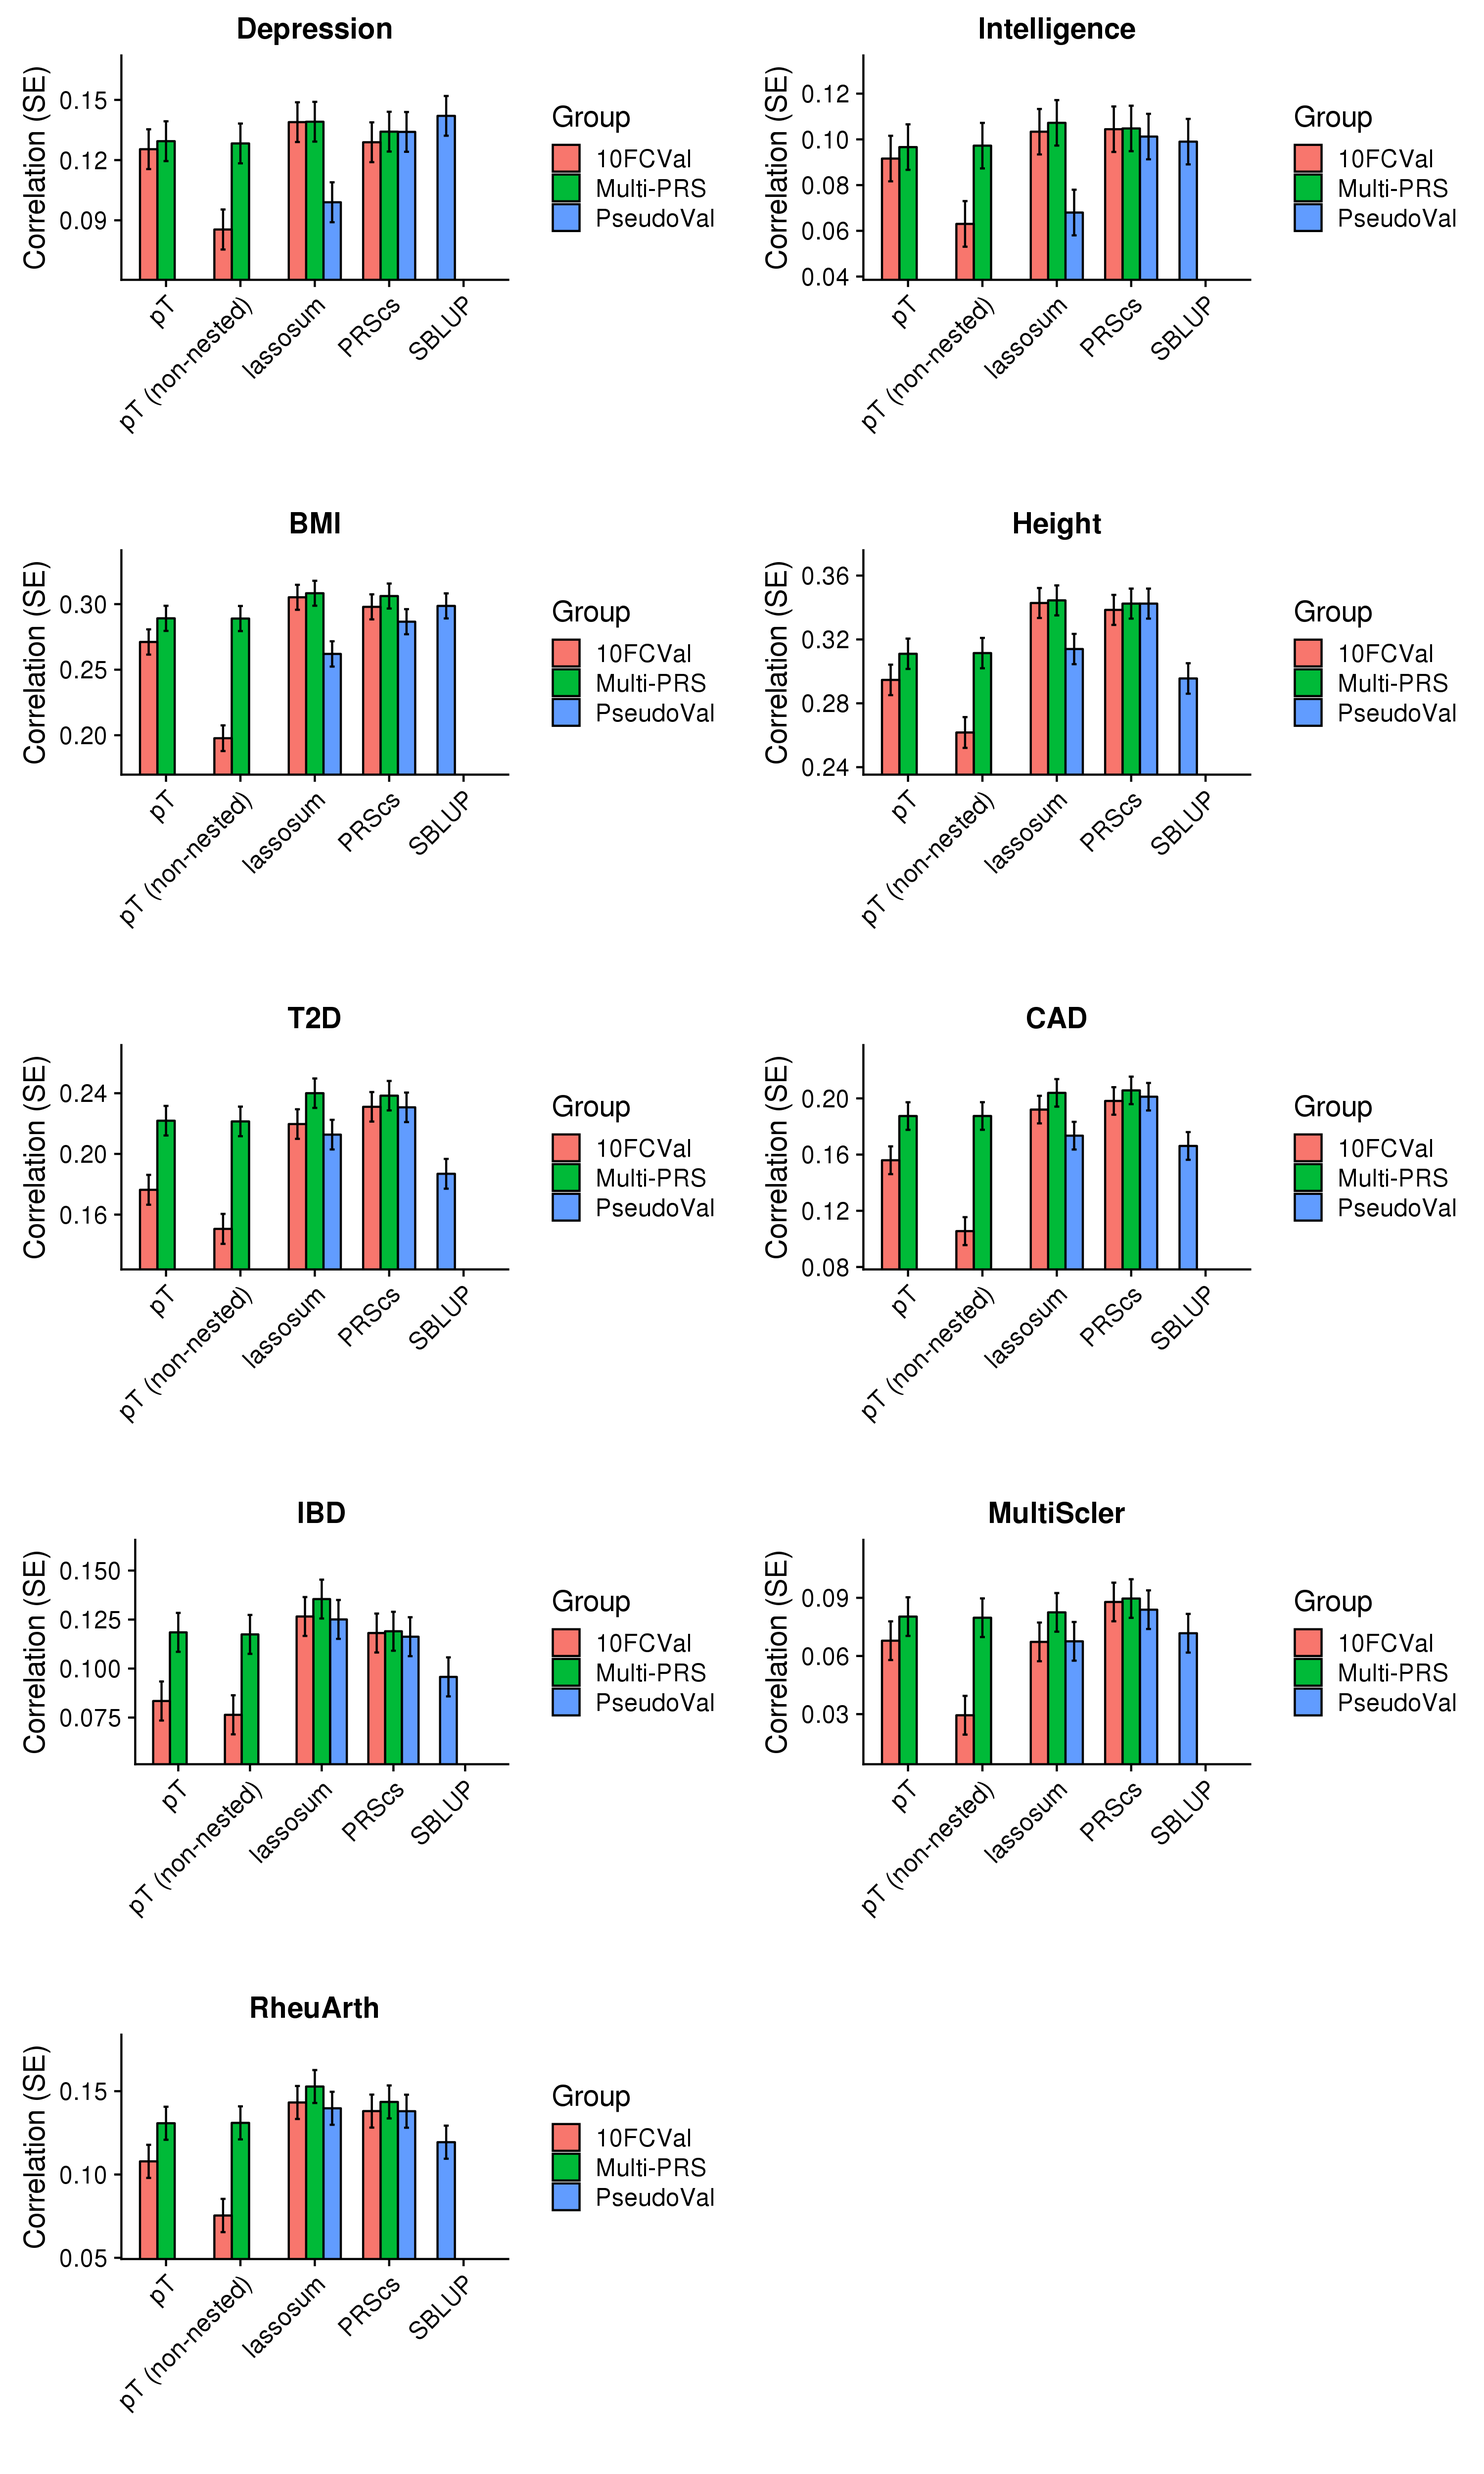
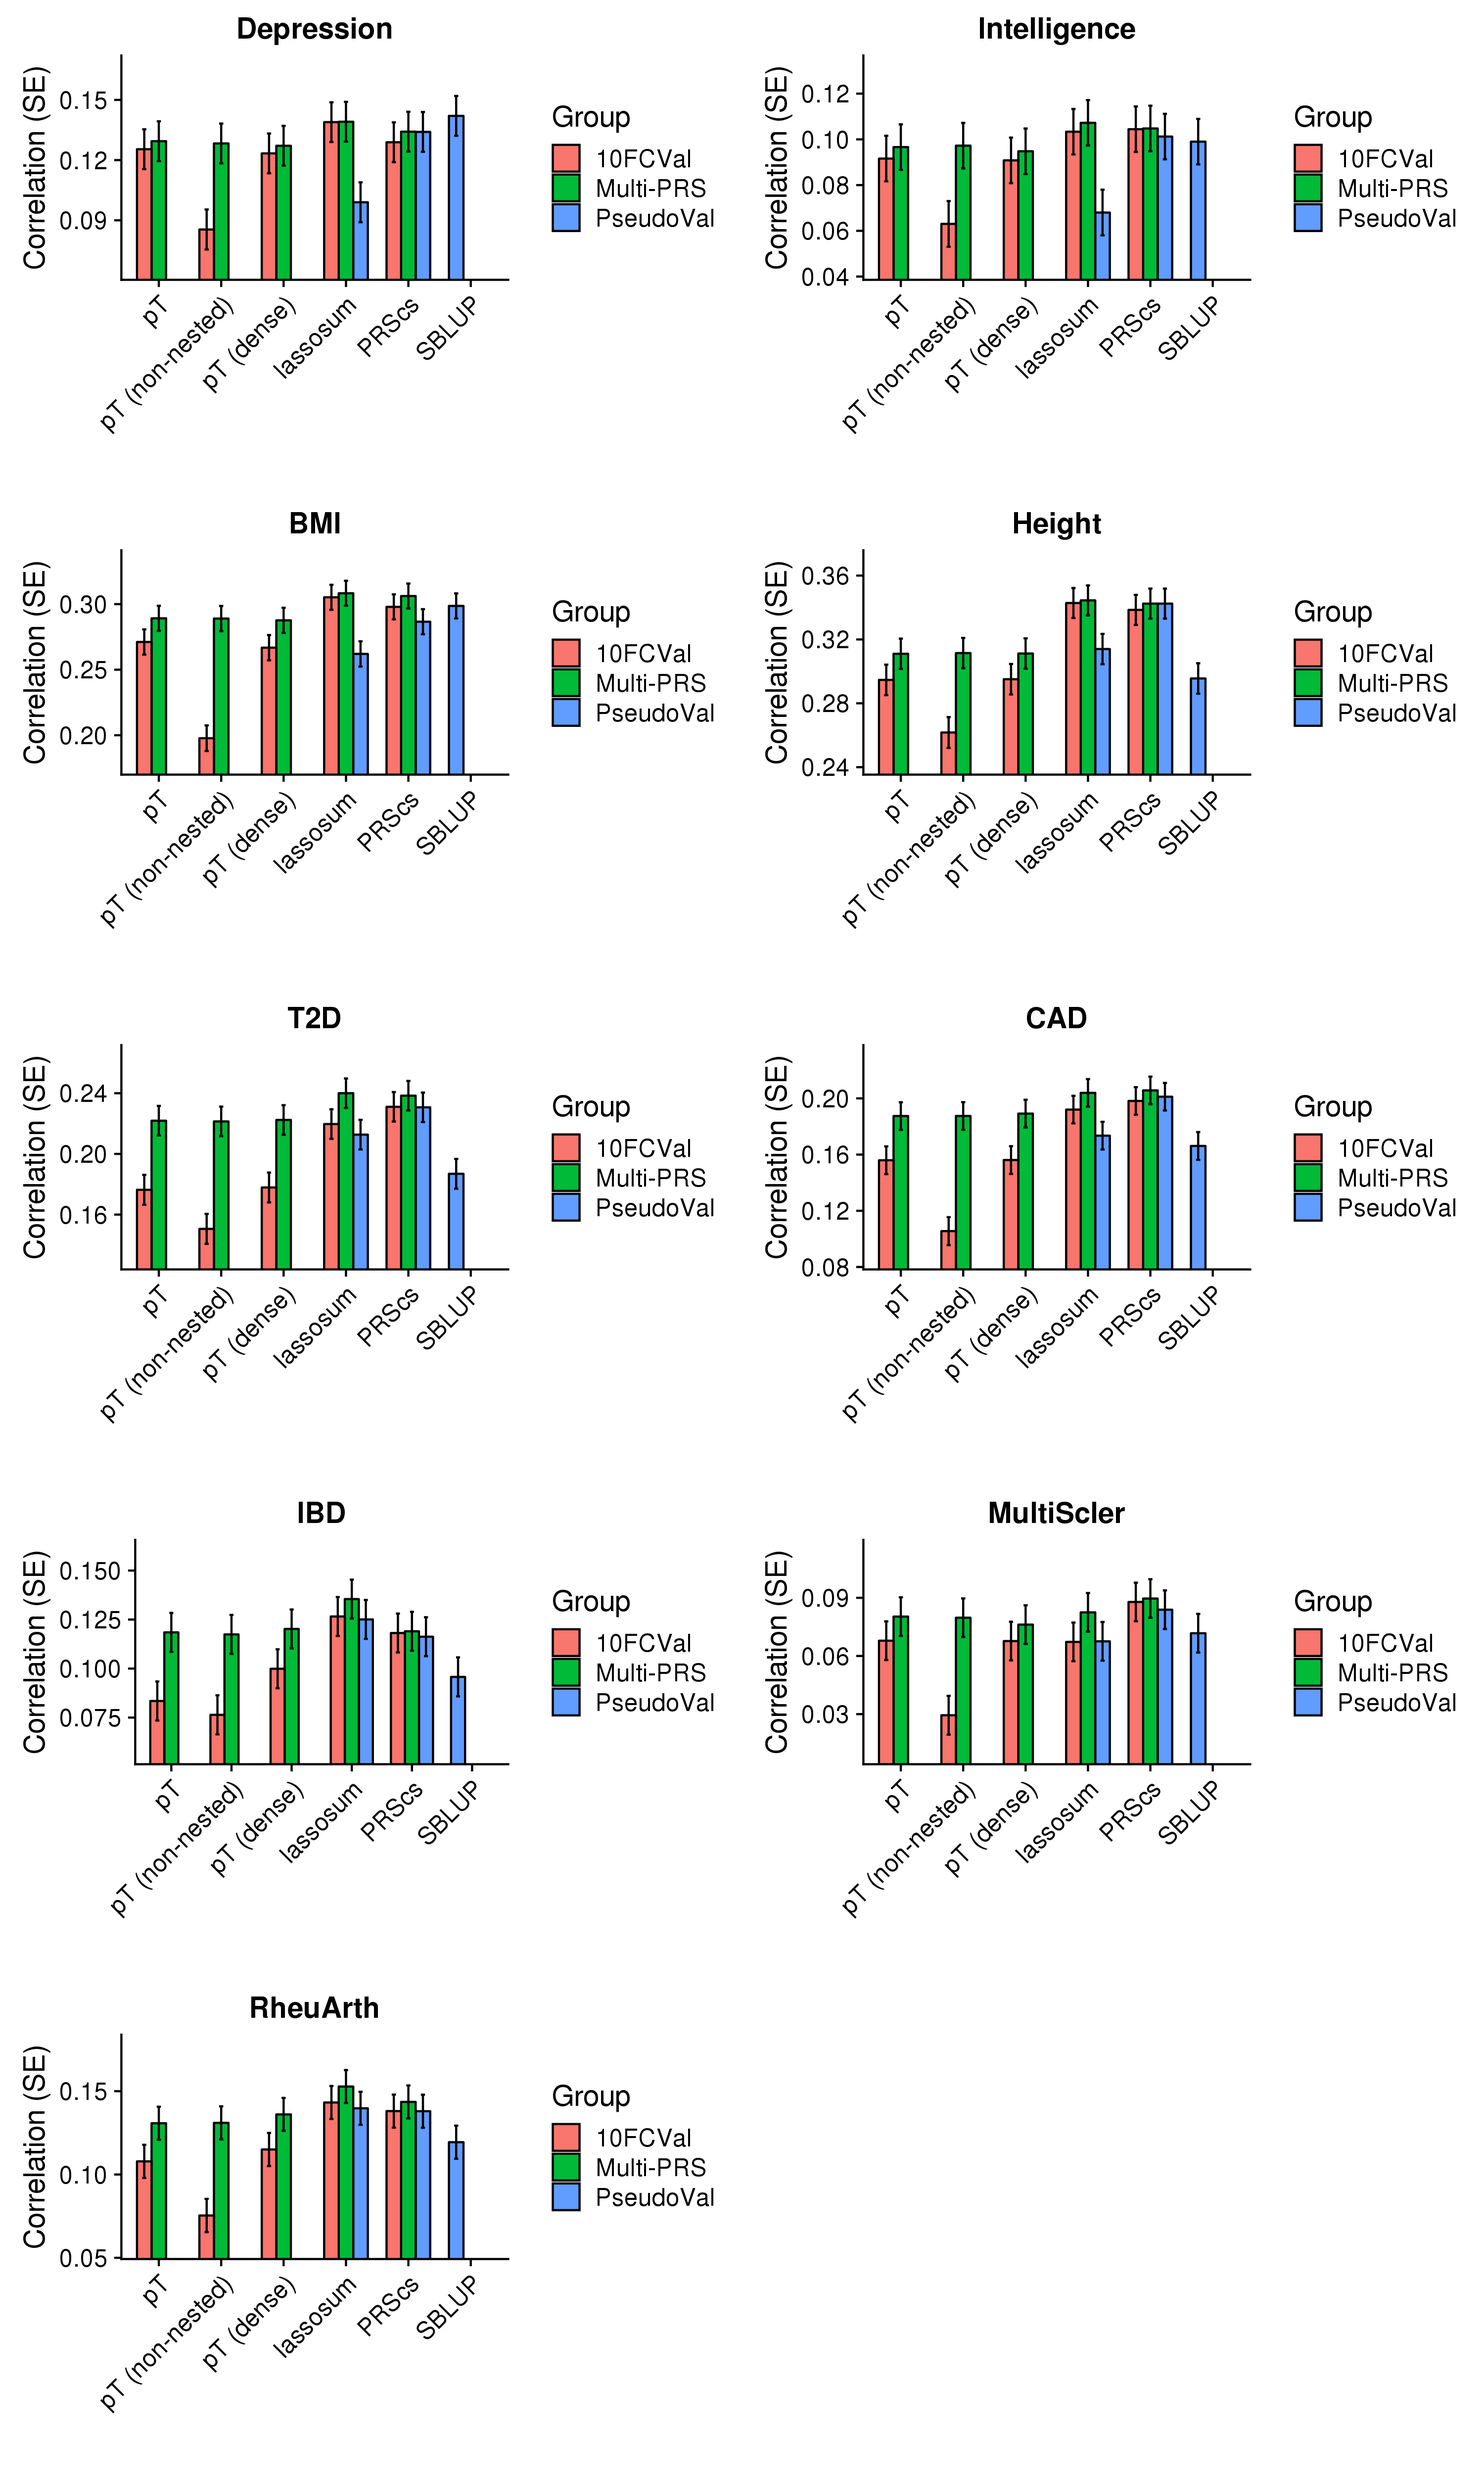
Update

diff --git a/Determine_optimal_polygenic_scoring_approach.html b/Determine_optimal_polygenic_scoring_approach.html
@@ -3897,6 +3897,20 @@ n</code></pre>
 </tr>
 <tr class="odd">
 <td align="left">Depression</td>
+<td align="left">pT (dense)</td>
+<td align="left">10FCVal</td>
+<td align="left">0.127 (0.005)</td>
+<td align="left">0.123 (0.01)</td>
+</tr>
+<tr class="even">
+<td align="left">Depression</td>
+<td align="left">pT (dense)</td>
+<td align="left">Multi-PRS</td>
+<td align="left">0.132 (0.005)</td>
+<td align="left">0.127 (0.01)</td>
+</tr>
+<tr class="odd">
+<td align="left">Depression</td>
 <td align="left">lassosum</td>
 <td align="left">PseudoVal</td>
 <td align="left">0.107 (0.005)</td>
@@ -3971,6 +3985,20 @@ n</code></pre>
 <td align="left">Multi-PRS</td>
 <td align="left">0.09 (0.005)</td>
 <td align="left">0.097 (0.01)</td>
+</tr>
+<tr class="even">
+<td align="left">Intelligence</td>
+<td align="left">pT (dense)</td>
+<td align="left">10FCVal</td>
+<td align="left">0.087 (0.005)</td>
+<td align="left">0.091 (0.01)</td>
+</tr>
+<tr class="odd">
+<td align="left">Intelligence</td>
+<td align="left">pT (dense)</td>
+<td align="left">Multi-PRS</td>
+<td align="left">0.089 (0.005)</td>
+<td align="left">0.095 (0.01)</td>
 </tr>
 <tr class="even">
 <td align="left">Intelligence</td>
@@ -4051,6 +4079,20 @@ n</code></pre>
 </tr>
 <tr class="odd">
 <td align="left">BMI</td>
+<td align="left">pT (dense)</td>
+<td align="left">10FCVal</td>
+<td align="left">0.265 (0.005)</td>
+<td align="left">0.267 (0.01)</td>
+</tr>
+<tr class="even">
+<td align="left">BMI</td>
+<td align="left">pT (dense)</td>
+<td align="left">Multi-PRS</td>
+<td align="left">0.282 (0.005)</td>
+<td align="left">0.288 (0.01)</td>
+</tr>
+<tr class="odd">
+<td align="left">BMI</td>
 <td align="left">lassosum</td>
 <td align="left">PseudoVal</td>
 <td align="left">0.258 (0.005)</td>
@@ -4124,6 +4166,20 @@ n</code></pre>
 <td align="left">pT (non-nested)</td>
 <td align="left">Multi-PRS</td>
 <td align="left">0.324 (0.005)</td>
+<td align="left">0.311 (0.01)</td>
+</tr>
+<tr class="even">
+<td align="left">Height</td>
+<td align="left">pT (dense)</td>
+<td align="left">10FCVal</td>
+<td align="left">0.311 (0.005)</td>
+<td align="left">0.295 (0.01)</td>
+</tr>
+<tr class="odd">
+<td align="left">Height</td>
+<td align="left">pT (dense)</td>
+<td align="left">Multi-PRS</td>
+<td align="left">0.323 (0.005)</td>
 <td align="left">0.311 (0.01)</td>
 </tr>
 <tr class="even">
@@ -4205,6 +4261,20 @@ n</code></pre>
 </tr>
 <tr class="odd">
 <td align="left">T2D</td>
+<td align="left">pT (dense)</td>
+<td align="left">10FCVal</td>
+<td align="left">0.176 (0.005)</td>
+<td align="left">0.178 (0.01)</td>
+</tr>
+<tr class="even">
+<td align="left">T2D</td>
+<td align="left">pT (dense)</td>
+<td align="left">Multi-PRS</td>
+<td align="left">0.223 (0.005)</td>
+<td align="left">0.222 (0.01)</td>
+</tr>
+<tr class="odd">
+<td align="left">T2D</td>
 <td align="left">lassosum</td>
 <td align="left">PseudoVal</td>
 <td align="left">0.21 (0.005)</td>
@@ -4279,6 +4349,20 @@ n</code></pre>
 <td align="left">Multi-PRS</td>
 <td align="left">0.169 (0.005)</td>
 <td align="left">0.187 (0.01)</td>
+</tr>
+<tr class="even">
+<td align="left">CAD</td>
+<td align="left">pT (dense)</td>
+<td align="left">10FCVal</td>
+<td align="left">0.141 (0.005)</td>
+<td align="left">0.156 (0.01)</td>
+</tr>
+<tr class="odd">
+<td align="left">CAD</td>
+<td align="left">pT (dense)</td>
+<td align="left">Multi-PRS</td>
+<td align="left">0.168 (0.005)</td>
+<td align="left">0.189 (0.01)</td>
 </tr>
 <tr class="even">
 <td align="left">CAD</td>
@@ -4359,6 +4443,20 @@ n</code></pre>
 </tr>
 <tr class="odd">
 <td align="left">IBD</td>
+<td align="left">pT (dense)</td>
+<td align="left">10FCVal</td>
+<td align="left">0.11 (0.005)</td>
+<td align="left">0.1 (0.01)</td>
+</tr>
+<tr class="even">
+<td align="left">IBD</td>
+<td align="left">pT (dense)</td>
+<td align="left">Multi-PRS</td>
+<td align="left">0.128 (0.005)</td>
+<td align="left">0.12 (0.01)</td>
+</tr>
+<tr class="odd">
+<td align="left">IBD</td>
 <td align="left">lassosum</td>
 <td align="left">PseudoVal</td>
 <td align="left">0.134 (0.005)</td>
@@ -4436,6 +4534,20 @@ n</code></pre>
 </tr>
 <tr class="even">
 <td align="left">MultiScler</td>
+<td align="left">pT (dense)</td>
+<td align="left">10FCVal</td>
+<td align="left">0.07 (0.005)</td>
+<td align="left">0.068 (0.01)</td>
+</tr>
+<tr class="odd">
+<td align="left">MultiScler</td>
+<td align="left">pT (dense)</td>
+<td align="left">Multi-PRS</td>
+<td align="left">0.088 (0.005)</td>
+<td align="left">0.076 (0.01)</td>
+</tr>
+<tr class="even">
+<td align="left">MultiScler</td>
 <td align="left">lassosum</td>
 <td align="left">PseudoVal</td>
 <td align="left">0.079 (0.005)</td>
@@ -4510,6 +4622,20 @@ n</code></pre>
 <td align="left">Multi-PRS</td>
 <td align="left">0.134 (0.005)</td>
 <td align="left">0.131 (0.01)</td>
+</tr>
+<tr class="odd">
+<td align="left">RheuArth</td>
+<td align="left">pT (dense)</td>
+<td align="left">10FCVal</td>
+<td align="left">0.115 (0.005)</td>
+<td align="left">0.115 (0.01)</td>
+</tr>
+<tr class="even">
+<td align="left">RheuArth</td>
+<td align="left">pT (dense)</td>
+<td align="left">Multi-PRS</td>
+<td align="left">0.134 (0.005)</td>
+<td align="left">0.136 (0.01)</td>
 </tr>
 <tr class="odd">
 <td align="left">RheuArth</td>

diff --git a/Pipeline_prep.html b/Pipeline_prep.html
@@ -1736,10 +1736,12 @@ done
 ## LAPACK: /opt/apps/general/R/3.5.0/lib64/R/lib/libRlapack.so
 ## 
 ## locale:
-##  [1] LC_CTYPE=en_GB       LC_NUMERIC=C         LC_TIME=en_GB       
-##  [4] LC_COLLATE=en_GB     LC_MONETARY=en_GB    LC_MESSAGES=en_GB   
-##  [7] LC_PAPER=en_GB       LC_NAME=C            LC_ADDRESS=C        
-## [10] LC_TELEPHONE=C       LC_MEASUREMENT=en_GB LC_IDENTIFICATION=C 
+##  [1] LC_CTYPE=en_GB.UTF-8       LC_NUMERIC=C              
+##  [3] LC_TIME=en_GB.UTF-8        LC_COLLATE=en_GB.UTF-8    
+##  [5] LC_MONETARY=en_GB.UTF-8    LC_MESSAGES=en_GB.UTF-8   
+##  [7] LC_PAPER=en_GB.UTF-8       LC_NAME=C                 
+##  [9] LC_ADDRESS=C               LC_TELEPHONE=C            
+## [11] LC_MEASUREMENT=en_GB.UTF-8 LC_IDENTIFICATION=C       
 ## 
 ## attached base packages:
 ## [1] parallel  stats     graphics  grDevices utils     datasets  methods  

diff --git a/Pipeline_prep_withUKBB_ref.html b/Pipeline_prep_withUKBB_ref.html
@@ -1242,10 +1242,12 @@ done
 ## LAPACK: /opt/apps/general/R/3.5.0/lib64/R/lib/libRlapack.so
 ## 
 ## locale:
-##  [1] LC_CTYPE=en_GB       LC_NUMERIC=C         LC_TIME=en_GB       
-##  [4] LC_COLLATE=en_GB     LC_MONETARY=en_GB    LC_MESSAGES=en_GB   
-##  [7] LC_PAPER=en_GB       LC_NAME=C            LC_ADDRESS=C        
-## [10] LC_TELEPHONE=C       LC_MEASUREMENT=en_GB LC_IDENTIFICATION=C 
+##  [1] LC_CTYPE=en_GB.UTF-8       LC_NUMERIC=C              
+##  [3] LC_TIME=en_GB.UTF-8        LC_COLLATE=en_GB.UTF-8    
+##  [5] LC_MONETARY=en_GB.UTF-8    LC_MESSAGES=en_GB.UTF-8   
+##  [7] LC_PAPER=en_GB.UTF-8       LC_NAME=C                 
+##  [9] LC_ADDRESS=C               LC_TELEPHONE=C            
+## [11] LC_MEASUREMENT=en_GB.UTF-8 LC_IDENTIFICATION=C       
 ## 
 ## attached base packages:
 ## [1] parallel  stats     graphics  grDevices utils     datasets  methods  
